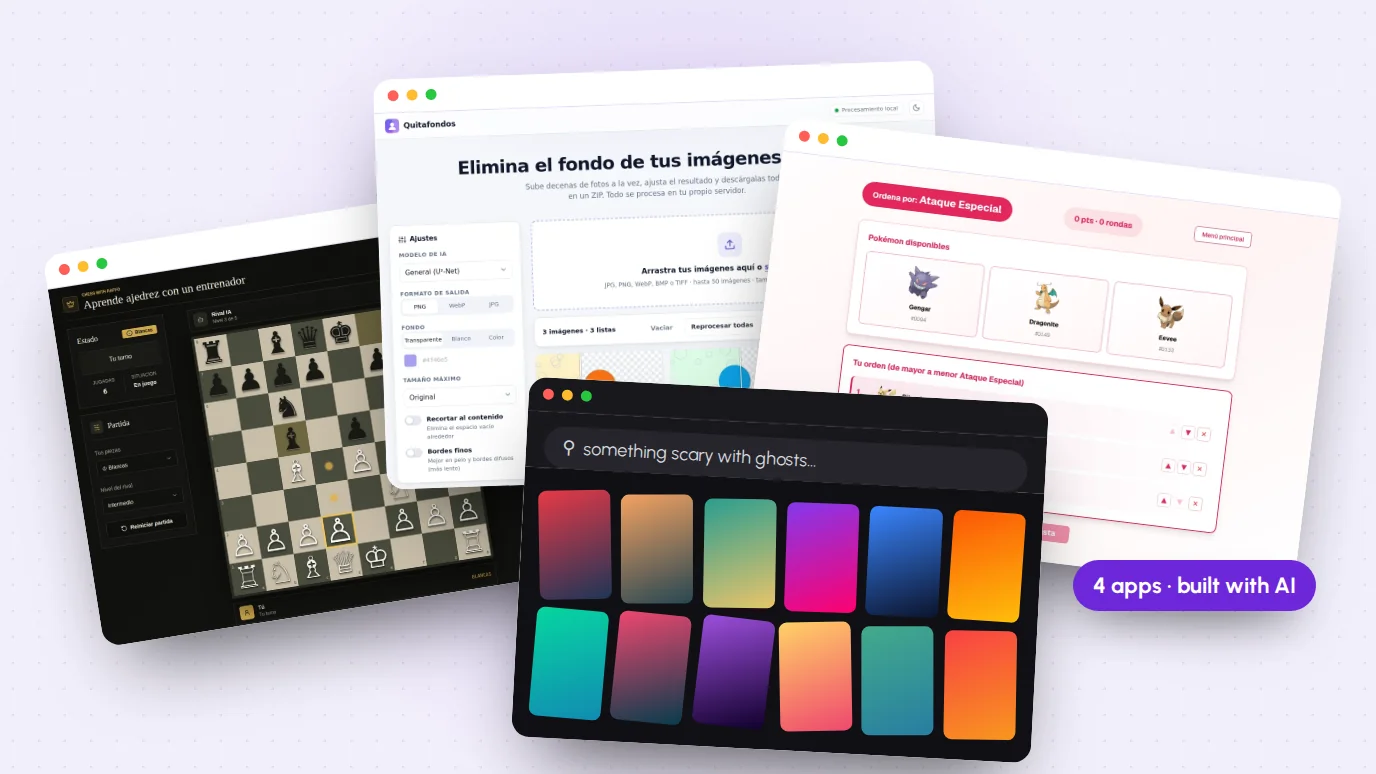
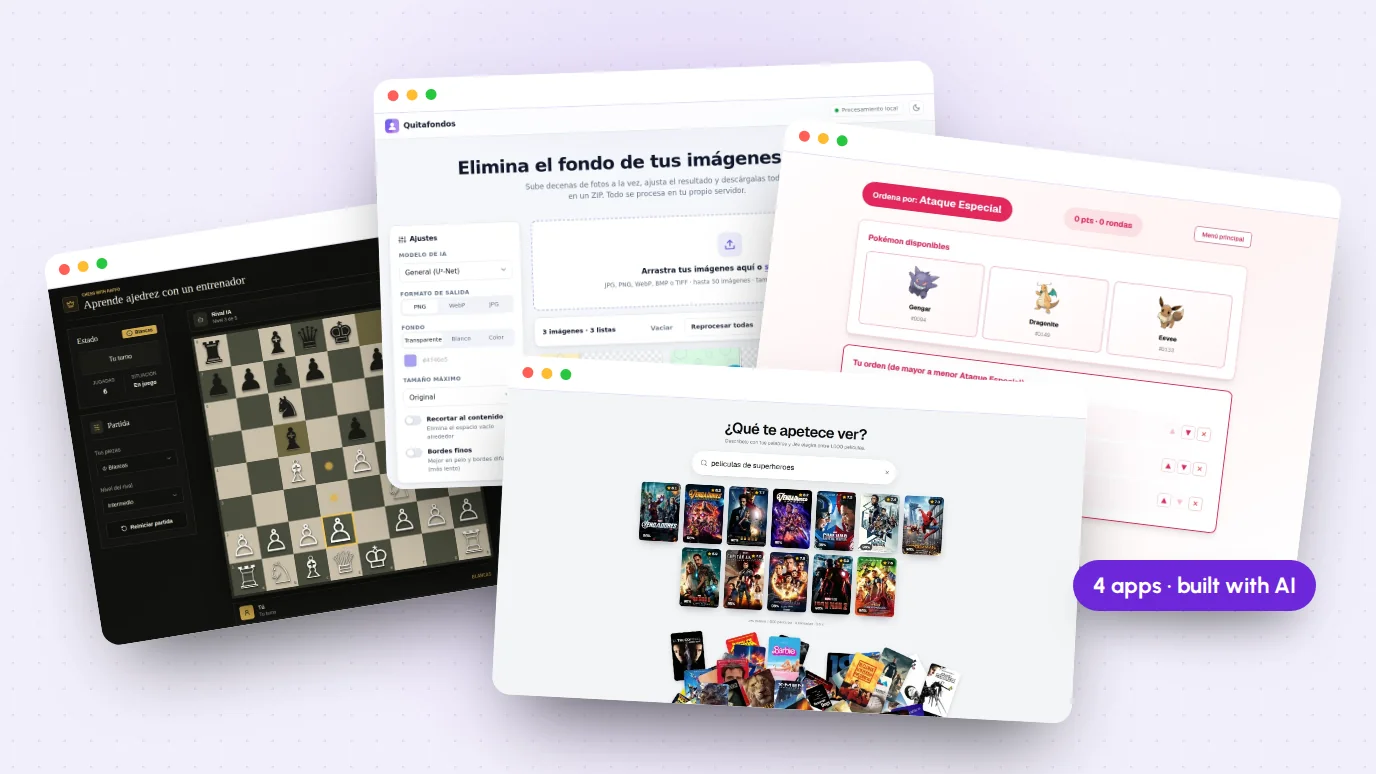
content: rename Montón to Qué vemos hoy and link Quitafondos now that it is public

Changed region(s): [[0.3438, 0.4651, 0.8125, 1.0]]

diff --git a/src/content/projects/es/ai-web-apps.ts b/src/content/projects/es/ai-web-apps.ts
@@ -2,7 +2,8 @@ import imgChess from "../../../assets/images/projects/ai-web-apps/chess-game.web
 import imgPokemon from "../../../assets/images/projects/ai-web-apps/pokemon-game.webp";
 import imgPokemonMenu from "../../../assets/images/projects/ai-web-apps/pokemon-menu.webp";
 import imgPokemonResults from "../../../assets/images/projects/ai-web-apps/pokemon-results.webp";
-import imgMonton from "../../../assets/images/projects/ai-web-apps/monton.webp";
+import imgMovies from "../../../assets/images/projects/ai-web-apps/que-vemos-hoy-results.webp";
+import imgMoviesHome from "../../../assets/images/projects/ai-web-apps/que-vemos-hoy-home.webp";
 import imgRemoverLight from "../../../assets/images/projects/ai-web-apps/quitafondos-light.webp";
 import imgRemoverDark from "../../../assets/images/projects/ai-web-apps/quitafondos-dark.webp";
 
@@ -16,7 +17,7 @@ export default {
   sites: [
     { label: "Aprende Ajedrez", url: "https://chesswithraffo.lovable.app/" },
     { label: "Pokémon Stat Master", url: "https://v0-pokemon-stat-game.vercel.app/" },
-    { label: "Montón", url: "https://v0-que-vemos-hoy.vercel.app/" },
+    { label: "Qué vemos hoy", url: "https://v0-que-vemos-hoy.vercel.app/" },
   ],
   facts: [
     { label: "Apps", value: "4 · 3 publicadas" },
@@ -73,12 +74,12 @@ export default {
             source: "https://github.com/David-Raffo/pokemon-stat-master",
           },
           {
-            title: "Montón",
+            title: "Qué vemos hoy",
             kicker: "Buscador de películas",
             description:
               "Describe con tus palabras lo que te apetece ver. Un LLM juzga un catálogo de ~1.000 películas de TMDB y va enviando las que encajan mientras los pósters salen volando del montón.",
-            image: imgMonton,
-            alt: "Ilustración de la interfaz de Montón con una búsqueda y una fila de pósters",
+            image: imgMovies,
+            alt: "Qué vemos hoy mostrando películas de superhéroes con su nota y porcentaje de encaje",
             tags: ["next", "typescript", "tailwind", "openrouter"],
             live: "https://v0-que-vemos-hoy.vercel.app/",
             source: "https://github.com/David-Raffo/descubre-peliculas",
@@ -91,7 +92,7 @@ export default {
             image: imgRemoverLight,
             alt: "Quitafondos con tres imágenes procesadas y el comparador antes y después",
             tags: ["python", "flask", "onnx", "docker"],
-            note: "Repo privado · autoalojado",
+            source: "https://github.com/David-Raffo/Img-background-remover",
           },
         ],
       },
@@ -99,7 +100,7 @@ export default {
     {
       type: "heading",
       props: {
-        eyebrow: "Montón",
+        eyebrow: "Qué vemos hoy",
         title: "Describe un antojo. <em>Recibe una peli.</em>",
         text: "Sin filtros ni géneros: una sola caja de búsqueda. Cada película del catálogo se convierte en una pregunta de sí o no para el modelo, y las que pasan del 60% salen volando del montón.",
       },
@@ -109,6 +110,29 @@ export default {
       props: {
         name: "poster-pile",
         caption: "Simulación de la búsqueda: escribir, puntuar y los pósters saliendo del montón",
+      },
+    },
+    {
+      type: "media",
+      props: {
+        type: "image",
+        src: imgMoviesHome,
+        alt: "Pantalla inicial de Qué vemos hoy con el buscador y el montón de pósters",
+        caption: "El montón, antes de buscar",
+        ratio: "1918 / 998",
+        frame: "v0-que-vemos-hoy.vercel.app",
+      },
+    },
+    {
+      type: "media",
+      props: {
+        type: "image",
+        src: imgMovies,
+        alt: "Resultados de una búsqueda de superhéroes con nota y porcentaje de encaje en cada póster",
+        caption: "Las que encajan, fuera del montón",
+        captionAlign: "left",
+        ratio: "1918 / 998",
+        frame: "v0-que-vemos-hoy.vercel.app",
       },
     },
     {

diff --git a/src/content/projects/en/ai-web-apps.ts b/src/content/projects/en/ai-web-apps.ts
@@ -2,7 +2,8 @@ import imgChess from "../../../assets/images/projects/ai-web-apps/chess-game.web
 import imgPokemon from "../../../assets/images/projects/ai-web-apps/pokemon-game.webp";
 import imgPokemonMenu from "../../../assets/images/projects/ai-web-apps/pokemon-menu.webp";
 import imgPokemonResults from "../../../assets/images/projects/ai-web-apps/pokemon-results.webp";
-import imgMonton from "../../../assets/images/projects/ai-web-apps/monton.webp";
+import imgMovies from "../../../assets/images/projects/ai-web-apps/que-vemos-hoy-results.webp";
+import imgMoviesHome from "../../../assets/images/projects/ai-web-apps/que-vemos-hoy-home.webp";
 import imgRemoverLight from "../../../assets/images/projects/ai-web-apps/quitafondos-light.webp";
 import imgRemoverDark from "../../../assets/images/projects/ai-web-apps/quitafondos-dark.webp";
 
@@ -16,7 +17,7 @@ export default {
   sites: [
     { label: "Aprende Ajedrez", url: "https://chesswithraffo.lovable.app/" },
     { label: "Pokémon Stat Master", url: "https://v0-pokemon-stat-game.vercel.app/" },
-    { label: "Montón", url: "https://v0-que-vemos-hoy.vercel.app/" },
+    { label: "Qué vemos hoy", url: "https://v0-que-vemos-hoy.vercel.app/" },
   ],
   facts: [
     { label: "Apps", value: "4 · 3 of them live" },
@@ -73,12 +74,12 @@ export default {
             source: "https://github.com/David-Raffo/pokemon-stat-master",
           },
           {
-            title: "Montón",
+            title: "Qué vemos hoy",
             kicker: "Movie finder",
             description:
               "Describe what you feel like watching in your own words. An LLM judges a catalog of ~1,000 TMDB movies and streams the matches as posters fly out of a pile.",
-            image: imgMonton,
-            alt: "Illustration of the Montón interface with a search and a row of matching posters",
+            image: imgMovies,
+            alt: "Qué vemos hoy showing superhero movies with their rating and fit percentage",
             tags: ["next", "typescript", "tailwind", "openrouter"],
             live: "https://v0-que-vemos-hoy.vercel.app/",
             source: "https://github.com/David-Raffo/descubre-peliculas",
@@ -91,7 +92,7 @@ export default {
             image: imgRemoverLight,
             alt: "Quitafondos with three processed images and a before and after slider",
             tags: ["python", "flask", "onnx", "docker"],
-            note: "Private repo · self-hosted",
+            source: "https://github.com/David-Raffo/Img-background-remover",
           },
         ],
       },
@@ -99,7 +100,7 @@ export default {
     {
       type: "heading",
       props: {
-        eyebrow: "Montón",
+        eyebrow: "Qué vemos hoy",
         title: "Describe a mood. <em>Get a movie.</em>",
         text: "No filters, no genres: one search box. Every movie in the catalog becomes a yes or no question for the model, and the ones above 60% fly out of the pile.",
       },
@@ -109,6 +110,29 @@ export default {
       props: {
         name: "poster-pile",
         caption: "Simulation of the search: typing, scoring and the posters flying out",
+      },
+    },
+    {
+      type: "media",
+      props: {
+        type: "image",
+        src: imgMoviesHome,
+        alt: "Qué vemos hoy home screen with the search box and the pile of posters",
+        caption: "The pile, before searching",
+        ratio: "1918 / 998",
+        frame: "v0-que-vemos-hoy.vercel.app",
+      },
+    },
+    {
+      type: "media",
+      props: {
+        type: "image",
+        src: imgMovies,
+        alt: "Results for a superhero search with rating and fit percentage on each poster",
+        caption: "The matches, out of the pile",
+        captionAlign: "left",
+        ratio: "1918 / 998",
+        frame: "v0-que-vemos-hoy.vercel.app",
       },
     },
     {

diff --git a/README.es.md b/README.es.md
@@ -4,7 +4,7 @@
 
 [English](README.md) · **Español**
 
-**Portfolio personal de David Raffo — AI Automation Developer.**
+**Portfolio personal de David Raffo, AI Automation Developer.**
 Una web interactiva en 3D que muestra proyectos de automatización de procesos, agentes de IA y desarrollo full stack.
 
 [![Web](https://img.shields.io/badge/web-raffo.dev-000000?logo=googlechrome&logoColor=white)](https://raffo.dev)
@@ -44,7 +44,7 @@ Una web interactiva en 3D que muestra proyectos de automatización de procesos, 
 | [**Video Tools**](https://github.com/David-Raffo/videotools) | Editor de vídeo web autoalojado: edición sobre proxy, reloj de Web Audio, previsualización de LUT en WebGL2 y render a máxima calidad con FFmpeg. |
 | [**FreeRouter**](https://github.com/David-Raffo/FreeRouter) | Router compatible con OpenAI delante de 24 proveedores de inferencia gratuita, con control de cuotas y failover automático. |
 | **ContextChatbot** | Chatbot autoalojable en n8n para cualquier web, en versión landing y versión tienda con RAG. |
-| **Aplicaciones Web (IA)** | [Aprende Ajedrez](https://github.com/David-Raffo/aprende-ajedrez), [Pokémon Stat Master](https://github.com/David-Raffo/pokemon-stat-master), [Montón](https://github.com/David-Raffo/descubre-peliculas) y Quitafondos, un quitafondos por lotes. |
+| **Aplicaciones Web (IA)** | [Aprende Ajedrez](https://github.com/David-Raffo/aprende-ajedrez), [Pokémon Stat Master](https://github.com/David-Raffo/pokemon-stat-master), [Qué vemos hoy](https://github.com/David-Raffo/descubre-peliculas) y [Quitafondos](https://github.com/David-Raffo/Img-background-remover), un quitafondos por lotes. |
 | **Web Portfolio** | Webs realizadas para clientes de distintos sectores. |
 
 Cada caso de estudio combina capturas reales con diagramas animados que se adaptan al tema de cada proyecto (simulación de enrutado, timeline del editor, etalonaje interactivo, flujos del chatbot y de los agentes), hechos con SVG y GSAP.

diff --git a/README.md b/README.md
@@ -4,7 +4,7 @@
 
 **English** · [Español](README.es.md)
 
-**Personal portfolio of David Raffo — AI Automation Developer.**
+**Personal portfolio of David Raffo, AI Automation Developer.**
 An interactive 3D website that showcases projects in process automation, AI agents and full stack development.
 
 [![Live site](https://img.shields.io/badge/live-raffo.dev-000000?logo=googlechrome&logoColor=white)](https://raffo.dev)
@@ -44,7 +44,7 @@ An interactive 3D website that showcases projects in process automation, AI agen
 | [**Video Tools**](https://github.com/David-Raffo/videotools) | Self-hosted browser video editor: proxy editing, Web Audio clock, WebGL2 LUT preview and full-quality FFmpeg renders. |
 | [**FreeRouter**](https://github.com/David-Raffo/FreeRouter) | OpenAI-compatible router in front of 24 free inference providers, with quota tracking and automatic failover. |
 | **ContextChatbot** | Self-hostable n8n chatbot for any website, in landing and RAG-powered shop versions. |
-| **AI Web Apps** | [Aprende Ajedrez](https://github.com/David-Raffo/aprende-ajedrez), [Pokémon Stat Master](https://github.com/David-Raffo/pokemon-stat-master), [Montón](https://github.com/David-Raffo/descubre-peliculas) and Quitafondos, a batch background remover. |
+| **AI Web Apps** | [Aprende Ajedrez](https://github.com/David-Raffo/aprende-ajedrez), [Pokémon Stat Master](https://github.com/David-Raffo/pokemon-stat-master), [Qué vemos hoy](https://github.com/David-Raffo/descubre-peliculas) and [Quitafondos](https://github.com/David-Raffo/Img-background-remover), a batch background remover. |
 | **Web Portfolio** | Websites delivered for clients across different industries. |
 
 Each case study mixes real screenshots with animated, theme-aware diagrams (routing simulation, editor timeline, interactive color grading, chatbot and agent flows) built with SVG and GSAP.
